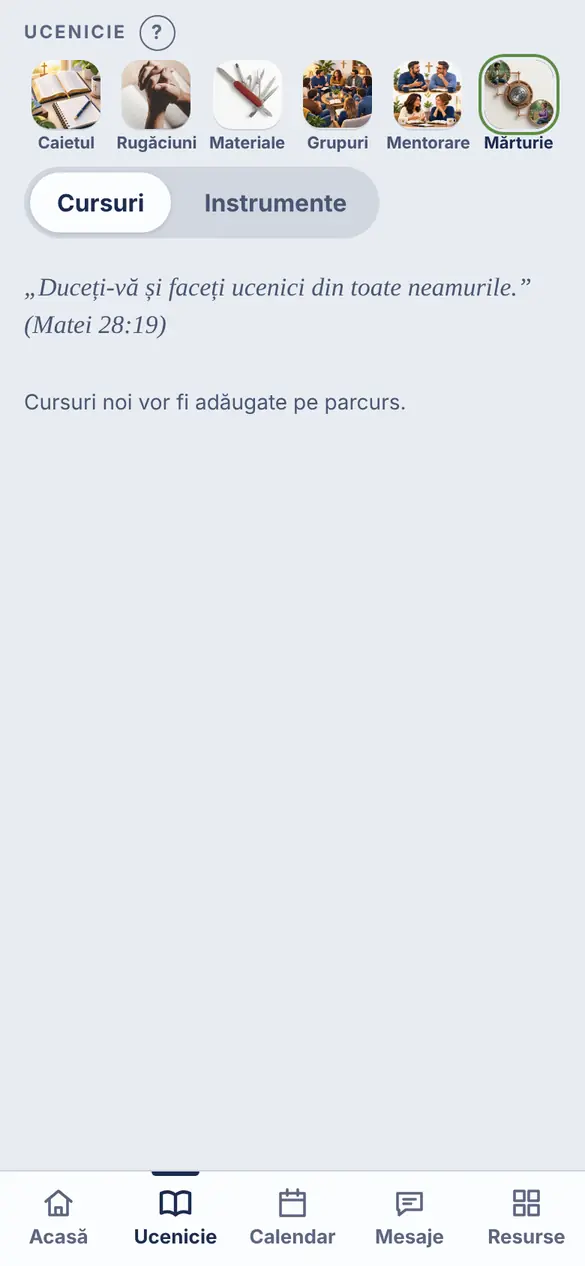
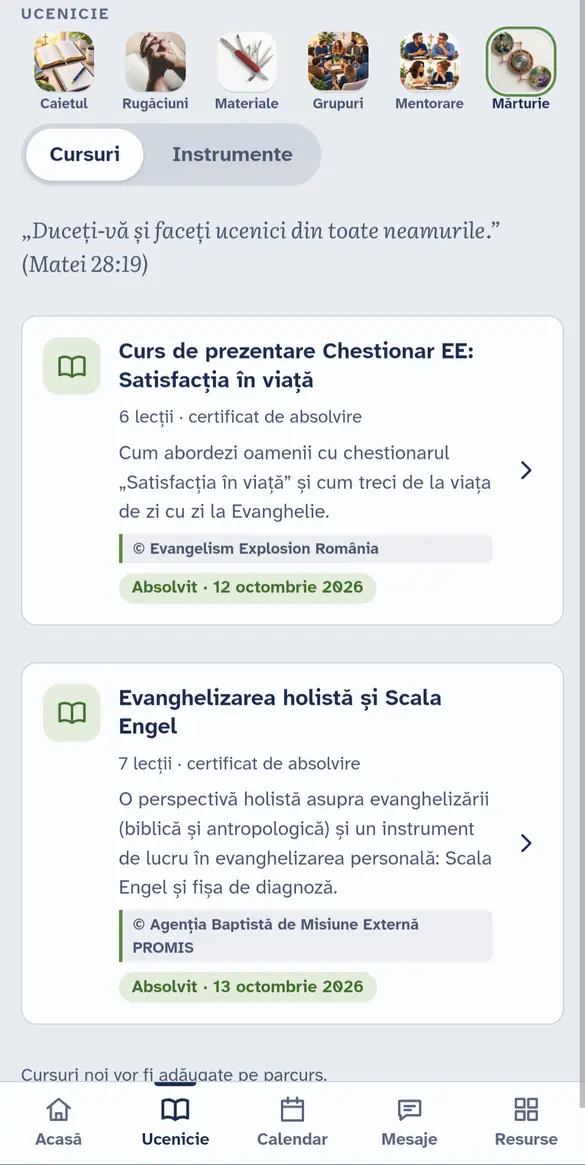
Add files via upload

diff --git a/tutorial/date.js b/tutorial/date.js
@@ -50,9 +50,19 @@ window.TUT = {
         note: ['Întrebarea „Ne cunoaștem?” apare după 2 săptămâni.', 'Conversația e doar a voastră: nici administratorii, nici coordonatorii nu o citesc.'],
         sfaturi: ['„Ceva nu e în regulă” ajunge doar la coordonator. Poți încheia oricând, fără explicații.'] }
     ] },
-    { id: 'evanghelizare', titlu: 'Evanghelizare', slides: [
-      { img: 'evg-1', titlu: 'Cursuri și instrumente', text: ['Cursuri scurte, pe lecții, cu certificat de absolvire, și instrumente pentru a vorbi altora despre Hristos.'],
-        sfaturi: ['Progresul se salvează în cont; certificatul îl descarci ca PDF.'] }
+    { id: 'evanghelizare', titlu: 'Evanghelizare (Mărturie)', slides: [
+      { img: 'evg-1', titlu: 'Cursurile', text: ['Ucenicie → Mărturie → Cursuri: cursuri scurte, pe lecții, pentru a vorbi altora despre Hristos. Fiecare are sursa materialelor și certificat de absolvire.'],
+        sfaturi: ['Progresul se salvează în cont; poți continua oricând de unde ai rămas.'] },
+      { img: 'evg-2', titlu: 'Un curs', text: ['Lecțiile se parcurg pe rând. La final primești certificatul, cu dată și număr, pe care îl poți descărca ca PDF.'],
+        sfaturi: ['Unele cursuri au și un clip de instruire, care se deschide direct în aplicație sau în YouTube.'] },
+      { img: 'evg-3', titlu: 'Instrumentele', text: ['Unelte pentru evanghelizarea pe teren: fișa de diagnoză, schița Evangheliei („Mâna EE”) și chestionarul online.'] },
+      { img: 'evg-4', titlu: 'Fișa de diagnoză și planificare', text: ['Pentru fiecare om pentru care te rogi notezi nevoile de bază, receptivitatea față de Evanghelie (Scala Engel) și planul tău de acțiune.'],
+        sfaturi: ['Fișele le vezi doar tu. Folosește un prenume sau inițiale și nu include date personale ale altora fără acordul lor.'] },
+      { img: 'evg-5', titlu: 'Schița Evangheliei: Mâna EE', text: ['Cerul, Omul, Dumnezeu, Cristos, Credința: cele cinci degete ale mâinii. Atinge un deget sau parcurge pas cu pas, ca fișă rapidă înainte de o discuție.'] },
+      { img: 'evg-6', titlu: 'Chestionarul online', text: ['Cinci întrebări care deschid o discuție despre viață, Dumnezeu și veșnicie.'],
+        sfaturi: ['„Arată codul QR”: persoana scanează codul și completează singură, fără aplicație și fără cont.', '„Completez eu”: scrii tu răspunsurile în timp ce discutați.', '„Intervievările mele” păstrează chestionarele completate de tine.'] },
+      { img: 'evg-7', titlu: 'Chestionarul, pas cu pas', text: ['Te prezinți, întrebi dacă persoana vrea să răspundă și notezi răspunsurile. La final, datele de contact sunt opționale.'],
+        sfaturi: ['Bifa de acord pentru a fi contactat i-o citești persoanei și o bifezi doar dacă spune „da”. Fără acord nu se păstrează emailul și telefonul.'] }
     ] },
     { id: 'calendar', titlu: 'Calendar', slides: [
       { img: 'cal-1', titlu: 'Agenda zilei', text: ['Activitățile bisericii apar singure; adaugi și activitățile tale, cu reminder pe telefon.'],
@@ -76,12 +86,26 @@ window.TUT = {
     ] },
     { id: 'resurse', titlu: 'Resurse', slides: [
       { img: 'res-1', titlu: 'Biblioteca', text: ['Cărți creștine de citit sau de ascultat în aplicație. Progresul se salvează; la final lași un gând.'],
-        note: ['Resursele: Biblioteca, Cântări, Radio și Jocuri. Butonul Resurse redeschide ultima folosită.'],
-        sfaturi: ['Jocurile biblice au regulile explicate la începutul fiecărui joc.'] },
+        note: ['Resursele: Biblioteca, Cântări, Radio și Jocuri. Butonul Resurse redeschide ultima folosită.'] },
       { img: 'res-2', titlu: 'Cântări', text: ['Cântările bisericii, cu versuri și acorduri. Caută după număr, titlu sau versuri.'],
         sfaturi: ['„Liste de proiecție”: pregătește lista pentru un eveniment și împărtășește-o cu echipa.'] },
       { img: 'res-3', titlu: 'Radio', text: ['Radio Betel (muzică și predici) și posturile creștine din Constanța. Radioul merge mai departe când navighezi prin aplicație.'],
         sfaturi: ['Când biserica transmite live, aplicația îți arată transmisiunea.'] }
+    ] },
+    { id: 'jocuri', titlu: 'Jocuri biblice', slides: [
+      { img: 'joc-1', titlu: 'Jocurile', text: ['Resurse → Jocuri: jocuri biblice pentru toate vârstele. Strângi puncte (XP) și urci în trepte.'],
+        sfaturi: ['Limita zilnică de puncte ne ajută să jucăm puțin în fiecare zi, nu mult într-una singură.'] },
+      { img: 'joc-2', titlu: 'Știi și mergi mai departe', text: ['Trei niveluri, câte zece întrebări, trei vieți și 30 de secunde pentru fiecare întrebare. Cu cât răspunzi mai repede, cu atât primești mai multe puncte.'],
+        sfaturi: ['50/50 și indiciul se pot folosi o dată pe nivel, dar reduc punctele.'] },
+      { img: 'joc-3', titlu: 'Camera evadării', text: ['În fiecare misiune, un cufăr vechi are șase lacăte colorate. Fiecare lacăt se deschide cu o ghicitoare din relatarea biblică.'],
+        sfaturi: ['Misiunile se deschid una după alta. Nivelul 1 e fără cronometru; nivelurile 2 și 3 au 30 de minute.'] },
+      { img: 'joc-4', titlu: 'Cufărul s-a deschis', text: ['După ultimul lacăt, cufărul se deschide și primești mesajul misiunii, cu versetele lui.'] },
+      { img: 'joc-5', titlu: 'Înapoi în timp', text: ['Tema anului: Regii și profeții. Sulul cronicilor te poartă în vremea regilor lui Israel: șase ghicitori, un cod și testul cronicii, contra cronometru.'],
+        sfaturi: ['Trei episoade: Regatul unit, Regatul lui Israel și Regatul lui Iuda. Fiecare se deschide după cel anterior.'] },
+      { img: 'joc-6', titlu: 'Pierdut și găsit', text: ['Luca 15: cauți oile rătăcite, rezolvi cinci ghicitori și deschizi lacătul staulului, în 30 de minute.'],
+        sfaturi: ['Acasă joci singur. La grupă, liderul îți dă un cod, iar la final afli unde te așteaptă surpriza grupei.', 'Liderii pornesc sesiuni de grup din „Gestionează sesiunile”.'] },
+      { img: 'joc-7', titlu: 'Insigne și clasament', text: ['Insignele se obțin jucând: prima rundă, runde perfecte, zile la rând, misiuni terminate.'],
+        sfaturi: ['În clasament apari cu un nume biblic, nu cu numele tău.'] }
     ] },
     { id: 'profil', titlu: 'Profil și confidențialitate', slides: [
       { img: 'profil-1', titlu: 'Preferințele tale', text: ['Datele tale, tema (luminos sau întunecat), mărimea textului și pictogramele de pe Acasă.'],
